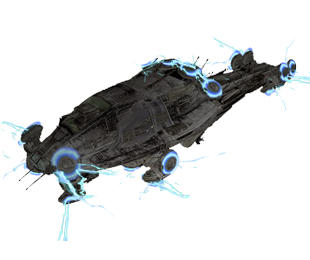
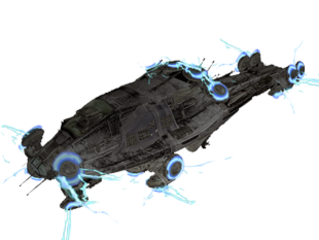
improved sticker functionality

diff --git a/app/mergepic.php b/app/mergepic.php
@@ -10,10 +10,12 @@
 
 	imagealphablending($img, false);
 	imagesavealpha($img, true);
+	/*if ($nbimg == 1)
+		imagecopy($pic, $img, 160, 160, 0, 0, 100, 100);
 	if ($nbimg == 2)
 		imagecopy($pic, $img, 160, 160, 0, 0, 100, 100);
-	else
-		imagecopy($pic, $img, 10, 10, 0, 0, 100, 100);
+	else*/
+		imagecopy($pic, $img, 0, 0, 0, 0, 320, 240);
 	ob_start();
 	imagejpeg($pic, null, 100);
 	$contents = ob_get_contents();
